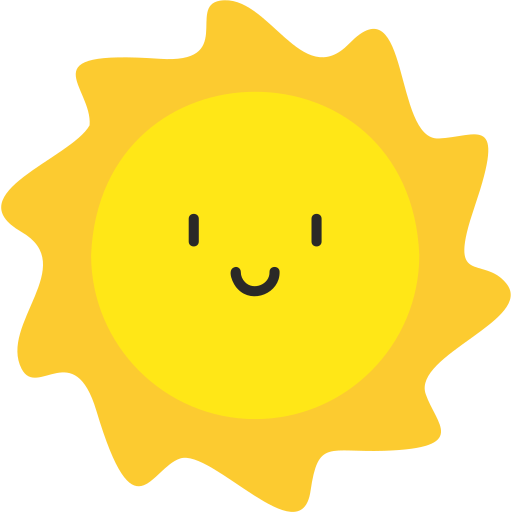
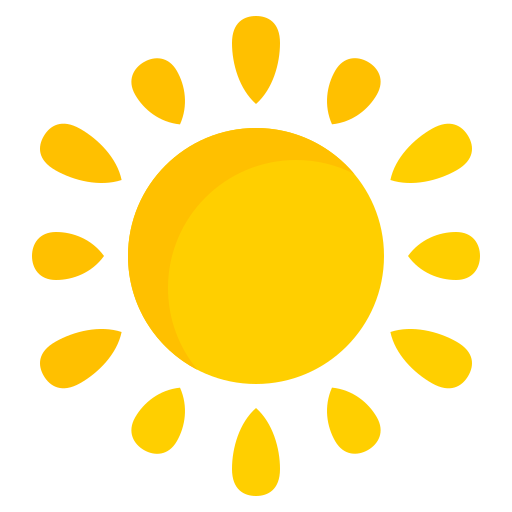
update june 2026 - bug3

diff --git a/404.html b/404.html
@@ -60,8 +60,8 @@
   integrity="sha256-Zmpaaj&#43;GXFsPF5WdPArSrnW3b30dovldeKsW00xBVwE="  crossorigin></script>
 
 
-<link rel="icon" type="image/png" sizes="32x32" href="/images/icons8_hu849c8300354cdb436c0ef7a273a13304_3475_32x32_fill_box_center_3.png">
-<link rel="apple-touch-icon" sizes="180x180" href="/images/icons8_hu849c8300354cdb436c0ef7a273a13304_3475_180x180_fill_box_center_3.png">
+<link rel="icon" type="image/png" sizes="32x32" href="/images/sun_hu70f3656b984148269e1212ee63f5e4b8_22074_32x32_fill_box_center_3.png">
+<link rel="apple-touch-icon" sizes="180x180" href="/images/sun_hu70f3656b984148269e1212ee63f5e4b8_22074_180x180_fill_box_center_3.png">
 
 <meta name="description"
   content="Programming and applied mathematics.">
@@ -87,7 +87,7 @@
 <meta property="og:type" content="website" />
 
 
-<meta property="og:image" content="/images/icons8.png">
+<meta property="og:image" content="/images/sun.png">
 
 
 <meta property="og:url" content="/404.html" />

diff --git a/authors/index.html b/authors/index.html
@@ -60,8 +60,8 @@
   integrity="sha256-Zmpaaj&#43;GXFsPF5WdPArSrnW3b30dovldeKsW00xBVwE="  crossorigin></script>
 
 
-<link rel="icon" type="image/png" sizes="32x32" href="/images/icons8_hu849c8300354cdb436c0ef7a273a13304_3475_32x32_fill_box_center_3.png">
-<link rel="apple-touch-icon" sizes="180x180" href="/images/icons8_hu849c8300354cdb436c0ef7a273a13304_3475_180x180_fill_box_center_3.png">
+<link rel="icon" type="image/png" sizes="32x32" href="/images/sun_hu70f3656b984148269e1212ee63f5e4b8_22074_32x32_fill_box_center_3.png">
+<link rel="apple-touch-icon" sizes="180x180" href="/images/sun_hu70f3656b984148269e1212ee63f5e4b8_22074_180x180_fill_box_center_3.png">
 
 <meta name="description"
   content="Programming and applied mathematics.">
@@ -72,7 +72,7 @@
 <meta property="og:type" content="website" />
 
 
-<meta property="og:image" content="/images/icons8.png">
+<meta property="og:image" content="/images/sun.png">
 
 
 <meta property="og:url" content="/authors/" />

diff --git a/categories/index.html b/categories/index.html
@@ -60,8 +60,8 @@
   integrity="sha256-Zmpaaj&#43;GXFsPF5WdPArSrnW3b30dovldeKsW00xBVwE="  crossorigin></script>
 
 
-<link rel="icon" type="image/png" sizes="32x32" href="/images/icons8_hu849c8300354cdb436c0ef7a273a13304_3475_32x32_fill_box_center_3.png">
-<link rel="apple-touch-icon" sizes="180x180" href="/images/icons8_hu849c8300354cdb436c0ef7a273a13304_3475_180x180_fill_box_center_3.png">
+<link rel="icon" type="image/png" sizes="32x32" href="/images/sun_hu70f3656b984148269e1212ee63f5e4b8_22074_32x32_fill_box_center_3.png">
+<link rel="apple-touch-icon" sizes="180x180" href="/images/sun_hu70f3656b984148269e1212ee63f5e4b8_22074_180x180_fill_box_center_3.png">
 
 <meta name="description"
   content="Programming and applied mathematics.">
@@ -72,7 +72,7 @@
 <meta property="og:type" content="website" />
 
 
-<meta property="og:image" content="/images/icons8.png">
+<meta property="og:image" content="/images/sun.png">
 
 
 <meta property="og:url" content="/categories/" />

diff --git a/code/index.html b/code/index.html
@@ -60,8 +60,8 @@
   integrity="sha256-Zmpaaj&#43;GXFsPF5WdPArSrnW3b30dovldeKsW00xBVwE="  crossorigin></script>
 
 
-<link rel="icon" type="image/png" sizes="32x32" href="/images/icons8_hu849c8300354cdb436c0ef7a273a13304_3475_32x32_fill_box_center_3.png">
-<link rel="apple-touch-icon" sizes="180x180" href="/images/icons8_hu849c8300354cdb436c0ef7a273a13304_3475_180x180_fill_box_center_3.png">
+<link rel="icon" type="image/png" sizes="32x32" href="/images/sun_hu70f3656b984148269e1212ee63f5e4b8_22074_32x32_fill_box_center_3.png">
+<link rel="apple-touch-icon" sizes="180x180" href="/images/sun_hu70f3656b984148269e1212ee63f5e4b8_22074_180x180_fill_box_center_3.png">
 
 <meta name="description"
   content=" TorchSurv: A package for deep survival analysis. TorchSurv is part of the FDA&rsquo;s Regulatory Science Tools Catalog (RST Reference Number: RST24AI17.01) covid19model: Model for characterizing COVID-19 spread BSplinesProjectedGPs: Regularised B-splines Projected Gaussian Process Priors ">
@@ -72,7 +72,7 @@
 <meta property="og:type" content="website" />
 
 
-<meta property="og:image" content="/images/icons8.png">
+<meta property="og:image" content="/images/sun.png">
 
 
 <meta property="og:url" content="/code/" />

diff --git a/cv/index.html b/cv/index.html
@@ -60,8 +60,8 @@
   integrity="sha256-Zmpaaj&#43;GXFsPF5WdPArSrnW3b30dovldeKsW00xBVwE="  crossorigin></script>
 
 
-<link rel="icon" type="image/png" sizes="32x32" href="/images/icons8_hu849c8300354cdb436c0ef7a273a13304_3475_32x32_fill_box_center_3.png">
-<link rel="apple-touch-icon" sizes="180x180" href="/images/icons8_hu849c8300354cdb436c0ef7a273a13304_3475_180x180_fill_box_center_3.png">
+<link rel="icon" type="image/png" sizes="32x32" href="/images/sun_hu70f3656b984148269e1212ee63f5e4b8_22074_32x32_fill_box_center_3.png">
+<link rel="apple-touch-icon" sizes="180x180" href="/images/sun_hu70f3656b984148269e1212ee63f5e4b8_22074_180x180_fill_box_center_3.png">
 
 <meta name="description"
   content="Download CV">
@@ -72,7 +72,7 @@
 <meta property="og:type" content="website" />
 
 
-<meta property="og:image" content="/images/icons8.png">
+<meta property="og:image" content="/images/sun.png">
 
 
 <meta property="og:url" content="/cv/" />

diff --git a/docs/index.html b/docs/index.html
@@ -60,8 +60,8 @@
   integrity="sha256-Zmpaaj&#43;GXFsPF5WdPArSrnW3b30dovldeKsW00xBVwE="  crossorigin></script>
 
 
-<link rel="icon" type="image/png" sizes="32x32" href="/images/icons8_hu849c8300354cdb436c0ef7a273a13304_3475_32x32_fill_box_center_3.png">
-<link rel="apple-touch-icon" sizes="180x180" href="/images/icons8_hu849c8300354cdb436c0ef7a273a13304_3475_180x180_fill_box_center_3.png">
+<link rel="icon" type="image/png" sizes="32x32" href="/images/sun_hu70f3656b984148269e1212ee63f5e4b8_22074_32x32_fill_box_center_3.png">
+<link rel="apple-touch-icon" sizes="180x180" href="/images/sun_hu70f3656b984148269e1212ee63f5e4b8_22074_180x180_fill_box_center_3.png">
 
 <meta name="description"
   content="My list of publications is available on Google Scholar.
@@ -78,7 +78,7 @@ Micheli and Monod. &ldquo;Deep Reinforcement Learning for Online Optimal Executi
 <meta property="og:type" content="website" />
 
 
-<meta property="og:image" content="/images/icons8.png">
+<meta property="og:image" content="/images/sun.png">
 
 
 <meta property="og:url" content="/docs/" />

diff --git a/index.html b/index.html
@@ -60,8 +60,8 @@
   integrity="sha256-Zmpaaj&#43;GXFsPF5WdPArSrnW3b30dovldeKsW00xBVwE="  crossorigin></script>
 
 
-<link rel="icon" type="image/png" sizes="32x32" href="/images/icons8_hu849c8300354cdb436c0ef7a273a13304_3475_32x32_fill_box_center_3.png">
-<link rel="apple-touch-icon" sizes="180x180" href="/images/icons8_hu849c8300354cdb436c0ef7a273a13304_3475_180x180_fill_box_center_3.png">
+<link rel="icon" type="image/png" sizes="32x32" href="/images/sun_hu70f3656b984148269e1212ee63f5e4b8_22074_32x32_fill_box_center_3.png">
+<link rel="apple-touch-icon" sizes="180x180" href="/images/sun_hu70f3656b984148269e1212ee63f5e4b8_22074_180x180_fill_box_center_3.png">
 
 <meta name="description"
   content="Programming and applied mathematics.">
@@ -72,7 +72,7 @@
 <meta property="og:type" content="website" />
 
 
-<meta property="og:image" content="/images/icons8.png">
+<meta property="og:image" content="/images/sun.png">
 
 
 <meta property="og:url" content="/" />

diff --git a/news/index.html b/news/index.html
@@ -60,8 +60,8 @@
   integrity="sha256-Zmpaaj&#43;GXFsPF5WdPArSrnW3b30dovldeKsW00xBVwE="  crossorigin></script>
 
 
-<link rel="icon" type="image/png" sizes="32x32" href="/images/icons8_hu849c8300354cdb436c0ef7a273a13304_3475_32x32_fill_box_center_3.png">
-<link rel="apple-touch-icon" sizes="180x180" href="/images/icons8_hu849c8300354cdb436c0ef7a273a13304_3475_180x180_fill_box_center_3.png">
+<link rel="icon" type="image/png" sizes="32x32" href="/images/sun_hu70f3656b984148269e1212ee63f5e4b8_22074_32x32_fill_box_center_3.png">
+<link rel="apple-touch-icon" sizes="180x180" href="/images/sun_hu70f3656b984148269e1212ee63f5e4b8_22074_180x180_fill_box_center_3.png">
 
 <meta name="description"
   content="Miscellaneous Panelist on the Learning Bayesian Statistics podcast discussing Quantifying uncertainty in Bayesian Deep Learning along Francois-Xavier Briol (UCL) and Yigzhen Li (Imperial)
@@ -75,7 +75,7 @@ Global UNAIDS Report 2023 used results from our study on the growing gender disp
 <meta property="og:type" content="website" />
 
 
-<meta property="og:image" content="/images/icons8.png">
+<meta property="og:image" content="/images/sun.png">
 
 
 <meta property="og:url" content="/news/" />

diff --git a/series/index.html b/series/index.html
@@ -60,8 +60,8 @@
   integrity="sha256-Zmpaaj&#43;GXFsPF5WdPArSrnW3b30dovldeKsW00xBVwE="  crossorigin></script>
 
 
-<link rel="icon" type="image/png" sizes="32x32" href="/images/icons8_hu849c8300354cdb436c0ef7a273a13304_3475_32x32_fill_box_center_3.png">
-<link rel="apple-touch-icon" sizes="180x180" href="/images/icons8_hu849c8300354cdb436c0ef7a273a13304_3475_180x180_fill_box_center_3.png">
+<link rel="icon" type="image/png" sizes="32x32" href="/images/sun_hu70f3656b984148269e1212ee63f5e4b8_22074_32x32_fill_box_center_3.png">
+<link rel="apple-touch-icon" sizes="180x180" href="/images/sun_hu70f3656b984148269e1212ee63f5e4b8_22074_180x180_fill_box_center_3.png">
 
 <meta name="description"
   content="Programming and applied mathematics.">
@@ -72,7 +72,7 @@
 <meta property="og:type" content="website" />
 
 
-<meta property="og:image" content="/images/icons8.png">
+<meta property="og:image" content="/images/sun.png">
 
 
 <meta property="og:url" content="/series/" />

diff --git a/tags/index.html b/tags/index.html
@@ -60,8 +60,8 @@
   integrity="sha256-Zmpaaj&#43;GXFsPF5WdPArSrnW3b30dovldeKsW00xBVwE="  crossorigin></script>
 
 
-<link rel="icon" type="image/png" sizes="32x32" href="/images/icons8_hu849c8300354cdb436c0ef7a273a13304_3475_32x32_fill_box_center_3.png">
-<link rel="apple-touch-icon" sizes="180x180" href="/images/icons8_hu849c8300354cdb436c0ef7a273a13304_3475_180x180_fill_box_center_3.png">
+<link rel="icon" type="image/png" sizes="32x32" href="/images/sun_hu70f3656b984148269e1212ee63f5e4b8_22074_32x32_fill_box_center_3.png">
+<link rel="apple-touch-icon" sizes="180x180" href="/images/sun_hu70f3656b984148269e1212ee63f5e4b8_22074_180x180_fill_box_center_3.png">
 
 <meta name="description"
   content="Programming and applied mathematics.">
@@ -72,7 +72,7 @@
 <meta property="og:type" content="website" />
 
 
-<meta property="og:image" content="/images/icons8.png">
+<meta property="og:image" content="/images/sun.png">
 
 
 <meta property="og:url" content="/tags/" />

diff --git a/talks/index.html b/talks/index.html
@@ -60,8 +60,8 @@
   integrity="sha256-Zmpaaj&#43;GXFsPF5WdPArSrnW3b30dovldeKsW00xBVwE="  crossorigin></script>
 
 
-<link rel="icon" type="image/png" sizes="32x32" href="/images/icons8_hu849c8300354cdb436c0ef7a273a13304_3475_32x32_fill_box_center_3.png">
-<link rel="apple-touch-icon" sizes="180x180" href="/images/icons8_hu849c8300354cdb436c0ef7a273a13304_3475_180x180_fill_box_center_3.png">
+<link rel="icon" type="image/png" sizes="32x32" href="/images/sun_hu70f3656b984148269e1212ee63f5e4b8_22074_32x32_fill_box_center_3.png">
+<link rel="apple-touch-icon" sizes="180x180" href="/images/sun_hu70f3656b984148269e1212ee63f5e4b8_22074_180x180_fill_box_center_3.png">
 
 <meta name="description"
   content="Machine Learning for Global Health, Imperial College London, 23 April 2025
@@ -79,7 +79,7 @@ StanCon, 13 August 2020">
 <meta property="og:type" content="website" />
 
 
-<meta property="og:image" content="/images/icons8.png">
+<meta property="og:image" content="/images/sun.png">
 
 
 <meta property="og:url" content="/talks/" />